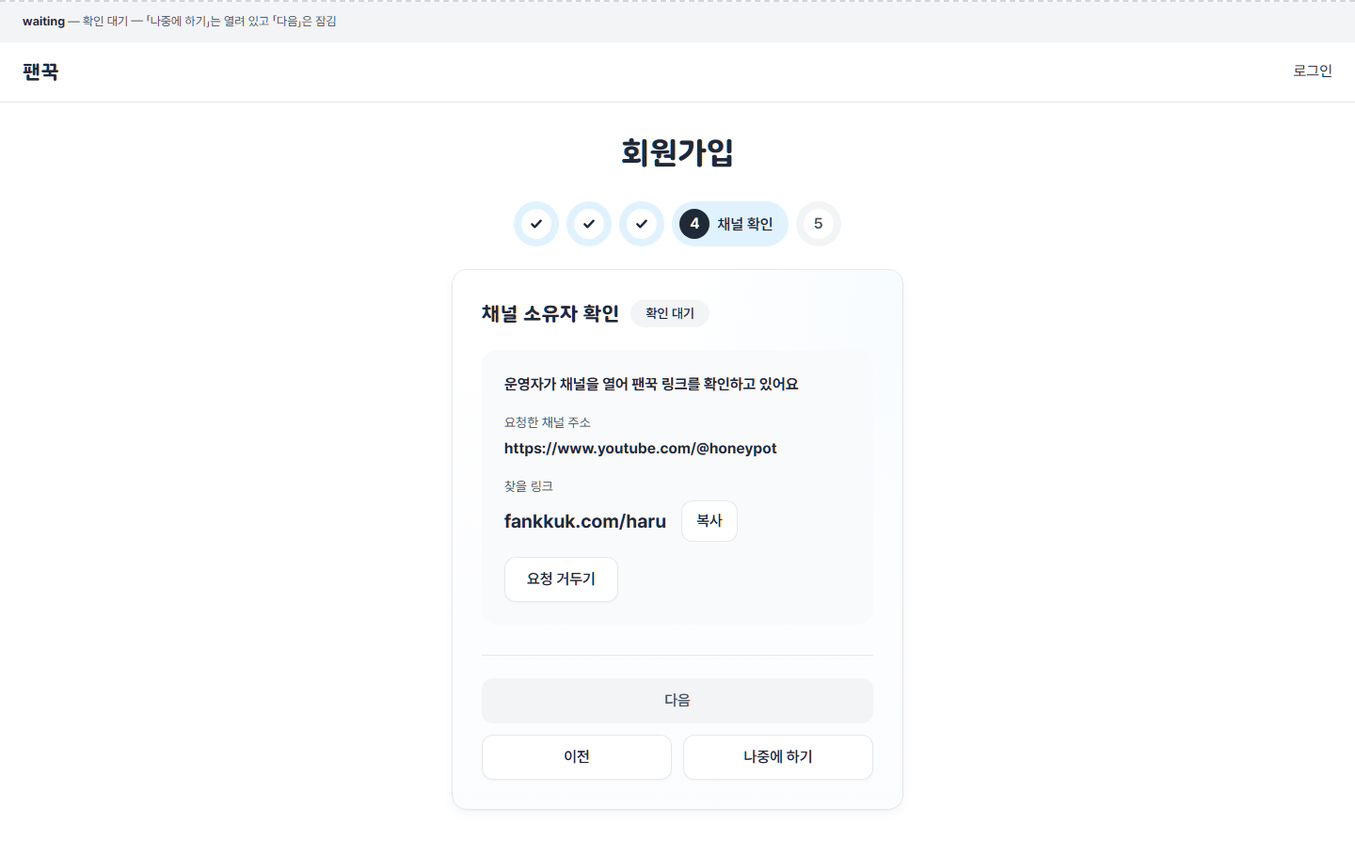
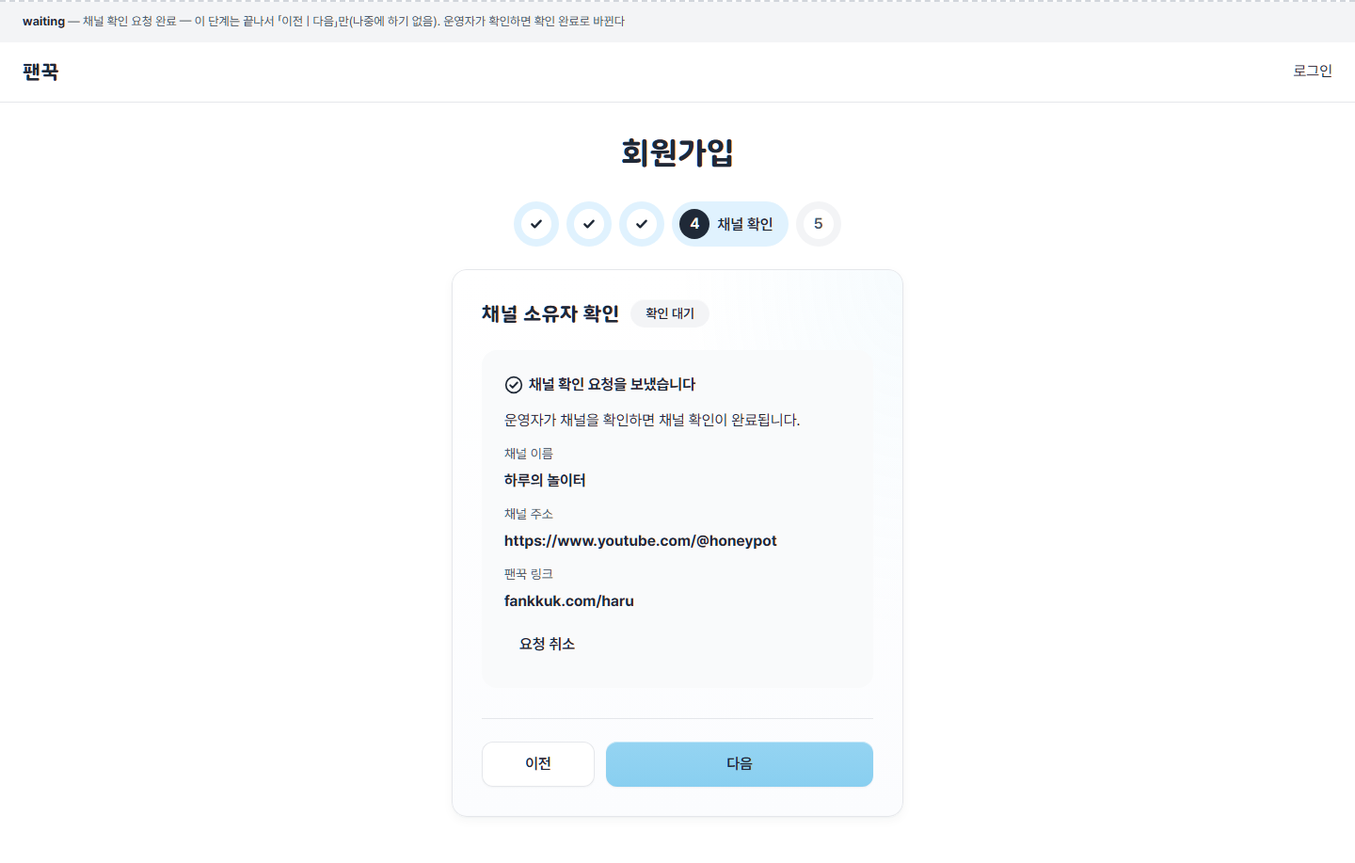
docs(fankkuk): 채널 확인 시안 — 4단계를 채널 이름·링크 올리기(예시)·주소·요청·요청 완료 순서로, 요청 뒤 「다음」 켜짐

diff --git a/projects/fankkuk/docs/design/mockups/channel-link-verify-20261102/index.html b/projects/fankkuk/docs/design/mockups/channel-link-verify-20261102/index.html
@@ -4,7 +4,7 @@
 <link rel="stylesheet" href="https://cdn.jsdelivr.net/gh/orioncactus/pretendard@v1.3.9/dist/web/variable/pretendardvariable.min.css">
 <link rel="stylesheet" href="styles.css"></head><body>
 <!-- 근거: docs/ux/pages/signup.md · handle.md 「2026-11-02 채널 확인 개정안」. 쪽지 코드 칸 없음. 새 토큰·부품 없음(styles.css 는 v43 가입 시안 CSS 를 그대로 복사). 운영자 화면은 admin.html -->
-<header class="v-head"><h1 class="t-title">채널 확인 — 선물 링크 게시 확인</h1><ol><li><a href="#signup-2">가입 2단계</a></li><li><a href="#link-needed">link_needed (계정 설정)</a></li><li><a href="#idle-empty">idle (1/3)</a></li><li><a href="#idle-youtube">idle (2/3)</a></li><li><a href="#idle-chzzk">idle (3/3)</a></li><li><a href="#waiting">waiting</a></li><li><a href="#rejected">rejected</a></li><li><a href="#verified">verified (가입 4단계)</a></li><li><a href="#locked">locked</a></li><li><a href="#acct-verified">verified (계정 설정)</a></li><li><a href="#acct-recheck">recheck_missing</a></li><li><a href="#profile-verifying">verifying (선물 링크 페이지 fankkuk.com/haru)</a></li><li><a href="admin.html">운영자 화면(admin.html)</a></li></ol></header>
+<header class="v-head"><h1 class="t-title">채널 확인 — 선물 링크 게시 확인</h1><ol><li><a href="#signup-2">가입 2단계</a></li><li><a href="#link-needed">link_needed (계정 설정)</a></li><li><a href="#idle-empty">확인 전 (주소 전)</a></li><li><a href="#idle-youtube">확인 전 (주소 뒤)</a></li><li><a href="#waiting">요청 완료</a></li><li><a href="#rejected">rejected</a></li><li><a href="#verified">verified (가입 4단계)</a></li><li><a href="#locked">locked</a></li><li><a href="#acct-verified">verified (계정 설정)</a></li><li><a href="#acct-recheck">recheck_missing</a></li><li><a href="#profile-verifying">verifying (선물 링크 페이지 fankkuk.com/haru)</a></li><li><a href="admin.html">운영자 화면(admin.html)</a></li></ol></header>
 <section class="v-state" id="signup-2"><span class="v-label"><b>가입 2단계 (크리에이터)</b> — 바뀌는 칸만: 칸 설명은 소제목 바로 아래(입력 칸 위), 꼴 규칙은 입력 칸 아래 · 공개 이름 칸 없음(닉네임으로 합침 — 다음 작업) · 팬꾹 링크 칸 새로</span><div class="v-bar"><b>팬꾹</b><span>로그인</span></div><main><section class="su-page"><div class="container auth su-box"><div class="head"><h1 class="t-title">회원가입</h1></div><nav class="su-steps-wrap" aria-label="가입 단계"><ol class="su-steps su-four"><li><span class="su-st is-done"><span class="su-dot" aria-hidden="true"><svg width="16" height="16" viewBox="0 0 24 24" aria-hidden="true"><path d="m5 12.5 4.5 4.5L19 7" fill="none" stroke="currentColor" stroke-width="3.5" stroke-linecap="round" stroke-linejoin="round"/></svg></span><span class="su-lbl">유형 선택</span></span></li><li><span class="su-st" aria-current="step"><span class="su-dot" aria-hidden="true">2</span><span class="su-lbl">정보 입력</span></span></li><li><span class="su-st"><span class="su-dot" aria-hidden="true">3</span><span class="su-lbl">휴대폰 확인</span></span></li><li><span class="su-st"><span class="su-dot" aria-hidden="true">4</span><span class="su-lbl">채널 확인</span></span></li><li><span class="su-st"><span class="su-dot" aria-hidden="true">5</span><span class="su-lbl">승인 서명</span></span></li></ol></nav><form class="card" onsubmit="return false"><fieldset class="su-step"><legend class="sr-only">정보 입력</legend>
 <h3 class="t-card" style="margin-bottom:16px">계정</h3><div class="form">
 <div><label class="label" for="s2-id">아이디</label><p class="v-desc">로그인에 사용하는 아이디입니다. 다른 사람에게는 보이지 않습니다.</p><input class="field" id="s2-id" value="haru_game"><p class="hint">영문 소문자·숫자·밑줄(_) 4~20자 · 가입 후 변경할 수 없습니다.</p></div>
@@ -16,11 +16,10 @@
 <p class="hint" style="margin:0">팬덤 이름·태그는 지금 문구를 유지합니다.</p></div>
 </fieldset><div class="su-step-actions"><button class="btn btn--line" type="button">이전</button><button class="btn su-next" type="submit">다음</button></div></form></div></section></main></section>
 <section class="v-state" id="link-needed"><span class="v-label"><b>link_needed (계정 설정)</b> — 가입 2단계에서 팬꾹 링크를 만들기 전에 가입한 기존 크리에이터만. 새로 가입하는 사람은 가입 4단계에서 이 상태를 보지 않는다. 「만들기」를 누르면 「정하면 30일 동안 바꿀 수 없어요」 확인 창(설정 화면과 같음)</span><div class="v-bar"><b>팬꾹</b><span>로그인</span></div><main><div class="v-wrap720"><div class="head" style="margin-bottom:24px"><h1 class="t-title">계정 설정</h1></div><section class="card"><fieldset class="su-step" style="margin:0"><legend class="sr-only">채널 소유자 확인</legend><div class="vp-head"><h2 class="t-card">채널 소유자 확인</h2><span class="tag">확인 전</span></div><p class="sub su-lead">다른 사람이 내 채널로 가입하지 못하도록, 채널 소유자를 확인해 주세요.<br>팬이 선물을 보낼 수 있게 팬꾹 링크를 채널 소개에 올려 주세요. 올라와 있으면 채널 확인도 같이 끝나요.</p><div class="vp-box"><label class="vp-label" for="h0">내 팬꾹 링크</label><div class="vp-handle"><span class="pre">fankkuk.com/</span><input class="field" id="h0" placeholder="haru"><button class="btn btn--sm" type="button">만들기</button></div></div></fieldset></section></div></main></section>
-<section class="v-state" id="idle-empty"><span class="v-label"><b>idle (1/3)</b> — 확인 전 — 채널 주소 입력 전</span><div class="v-bar"><b>팬꾹</b><span>로그인</span></div><main><section class="su-page"><div class="container auth su-box"><div class="head"><h1 class="t-title">회원가입</h1></div><nav class="su-steps-wrap" aria-label="가입 단계"><ol class="su-steps su-four"><li><span class="su-st is-done"><span class="su-dot" aria-hidden="true"><svg width="16" height="16" viewBox="0 0 24 24" aria-hidden="true"><path d="m5 12.5 4.5 4.5L19 7" fill="none" stroke="currentColor" stroke-width="3.5" stroke-linecap="round" stroke-linejoin="round"/></svg></span><span class="su-lbl">유형 선택</span></span></li><li><span class="su-st is-done"><span class="su-dot" aria-hidden="true"><svg width="16" height="16" viewBox="0 0 24 24" aria-hidden="true"><path d="m5 12.5 4.5 4.5L19 7" fill="none" stroke="currentColor" stroke-width="3.5" stroke-linecap="round" stroke-linejoin="round"/></svg></span><span class="su-lbl">정보 입력</span></span></li><li><span class="su-st is-done"><span class="su-dot" aria-hidden="true"><svg width="16" height="16" viewBox="0 0 24 24" aria-hidden="true"><path d="m5 12.5 4.5 4.5L19 7" fill="none" stroke="currentColor" stroke-width="3.5" stroke-linecap="round" stroke-linejoin="round"/></svg></span><span class="su-lbl">휴대폰 확인</span></span></li><li><span class="su-st" aria-current="step"><span class="su-dot" aria-hidden="true">4</span><span class="su-lbl">채널 확인</span></span></li><li><span class="su-st"><span class="su-dot" aria-hidden="true">5</span><span class="su-lbl">승인 서명</span></span></li></ol></nav><form class="card" onsubmit="return false"><fieldset class="su-step"><legend class="sr-only">채널 소유자 확인</legend><div class="vp-head"><h2 class="t-card">채널 소유자 확인</h2><span class="tag">확인 전</span></div><p class="sub su-lead">다른 사람이 내 채널로 가입하지 못하도록, 채널 소유자를 확인해 주세요.<br>팬이 선물을 보낼 수 있게 팬꾹 링크를 채널 소개에 올려 주세요. 올라와 있으면 채널 확인도 같이 끝나요.</p><div class="vp-box"><p class="vp-label">내 팬꾹 링크</p><div class="vp-code-row"><span class="vp-link">fankkuk.com/haru</span><button class="btn btn--line btn--sm" type="button">복사</button></div></div><div style="margin-top:24px"><div><label class="label" for="a1">채널 주소</label><input class="field" id="a1" inputmode="url" placeholder="https://www.youtube.com/@핸들" value=""><ul class="vp-examples"><li>유튜브 <code>https://www.youtube.com/@핸들</code></li><li>치지직 <code>https://chzzk.naver.com/채널ID</code></li><li>SOOP <code>https://www.sooplive.co.kr/station/아이디</code></li></ul></div></div><div class="vp-steps"><button class="btn" type="button" aria-disabled="true">확인 요청</button></div></fieldset><div class="v-kakao-actions v-three"><button class="btn btn--line" type="button">이전</button><button class="btn btn--line" type="button">나중에 하기</button><button class="btn su-next v-main" type="submit" aria-disabled="true">다음</button></div></form></div></section></main></section>
-<section class="v-state" id="idle-youtube"><span class="v-label"><b>idle (2/3)</b> — 확인 전 — 유튜브 주소 입력 뒤</span><div class="v-bar"><b>팬꾹</b><span>로그인</span></div><main><section class="su-page"><div class="container auth su-box"><div class="head"><h1 class="t-title">회원가입</h1></div><nav class="su-steps-wrap" aria-label="가입 단계"><ol class="su-steps su-four"><li><span class="su-st is-done"><span class="su-dot" aria-hidden="true"><svg width="16" height="16" viewBox="0 0 24 24" aria-hidden="true"><path d="m5 12.5 4.5 4.5L19 7" fill="none" stroke="currentColor" stroke-width="3.5" stroke-linecap="round" stroke-linejoin="round"/></svg></span><span class="su-lbl">유형 선택</span></span></li><li><span class="su-st is-done"><span class="su-dot" aria-hidden="true"><svg width="16" height="16" viewBox="0 0 24 24" aria-hidden="true"><path d="m5 12.5 4.5 4.5L19 7" fill="none" stroke="currentColor" stroke-width="3.5" stroke-linecap="round" stroke-linejoin="round"/></svg></span><span class="su-lbl">정보 입력</span></span></li><li><span class="su-st is-done"><span class="su-dot" aria-hidden="true"><svg width="16" height="16" viewBox="0 0 24 24" aria-hidden="true"><path d="m5 12.5 4.5 4.5L19 7" fill="none" stroke="currentColor" stroke-width="3.5" stroke-linecap="round" stroke-linejoin="round"/></svg></span><span class="su-lbl">휴대폰 확인</span></span></li><li><span class="su-st" aria-current="step"><span class="su-dot" aria-hidden="true">4</span><span class="su-lbl">채널 확인</span></span></li><li><span class="su-st"><span class="su-dot" aria-hidden="true">5</span><span class="su-lbl">승인 서명</span></span></li></ol></nav><form class="card" onsubmit="return false"><fieldset class="su-step"><legend class="sr-only">채널 소유자 확인</legend><div class="vp-head"><h2 class="t-card">채널 소유자 확인</h2><span class="tag">확인 전</span></div><p class="sub su-lead">다른 사람이 내 채널로 가입하지 못하도록, 채널 소유자를 확인해 주세요.<br>팬이 선물을 보낼 수 있게 팬꾹 링크를 채널 소개에 올려 주세요. 올라와 있으면 채널 확인도 같이 끝나요.</p><div class="vp-box"><p class="vp-label">내 팬꾹 링크</p><div class="vp-code-row"><span class="vp-link">fankkuk.com/haru</span><button class="btn btn--line btn--sm" type="button">복사</button></div></div><div style="margin-top:24px"><div><label class="label" for="a2">채널 주소</label><input class="field" id="a2" inputmode="url" placeholder="https://www.youtube.com/@핸들" value="https://www.youtube.com/@honeypot"><p class="vp-preview">유튜브 · https://www.youtube.com/@honeypot</p></div></div><div class="vp-steps"><button class="btn" type="button">확인 요청</button></div></fieldset><div class="v-kakao-actions v-three"><button class="btn btn--line" type="button">이전</button><button class="btn btn--line" type="button">나중에 하기</button><button class="btn su-next v-main" type="submit" aria-disabled="true">다음</button></div></form></div></section></main></section>
-<section class="v-state" id="idle-chzzk"><span class="v-label"><b>idle (3/3)</b> — 확인 전 — 치지직 주소 + 치지직 로그인 연결이 있을 때</span><div class="v-bar"><b>팬꾹</b><span>로그인</span></div><main><section class="su-page"><div class="container auth su-box"><div class="head"><h1 class="t-title">회원가입</h1></div><nav class="su-steps-wrap" aria-label="가입 단계"><ol class="su-steps su-four"><li><span class="su-st is-done"><span class="su-dot" aria-hidden="true"><svg width="16" height="16" viewBox="0 0 24 24" aria-hidden="true"><path d="m5 12.5 4.5 4.5L19 7" fill="none" stroke="currentColor" stroke-width="3.5" stroke-linecap="round" stroke-linejoin="round"/></svg></span><span class="su-lbl">유형 선택</span></span></li><li><span class="su-st is-done"><span class="su-dot" aria-hidden="true"><svg width="16" height="16" viewBox="0 0 24 24" aria-hidden="true"><path d="m5 12.5 4.5 4.5L19 7" fill="none" stroke="currentColor" stroke-width="3.5" stroke-linecap="round" stroke-linejoin="round"/></svg></span><span class="su-lbl">정보 입력</span></span></li><li><span class="su-st is-done"><span class="su-dot" aria-hidden="true"><svg width="16" height="16" viewBox="0 0 24 24" aria-hidden="true"><path d="m5 12.5 4.5 4.5L19 7" fill="none" stroke="currentColor" stroke-width="3.5" stroke-linecap="round" stroke-linejoin="round"/></svg></span><span class="su-lbl">휴대폰 확인</span></span></li><li><span class="su-st" aria-current="step"><span class="su-dot" aria-hidden="true">4</span><span class="su-lbl">채널 확인</span></span></li><li><span class="su-st"><span class="su-dot" aria-hidden="true">5</span><span class="su-lbl">승인 서명</span></span></li></ol></nav><form class="card" onsubmit="return false"><fieldset class="su-step"><legend class="sr-only">채널 소유자 확인</legend><div class="vp-head"><h2 class="t-card">채널 소유자 확인</h2><span class="tag">확인 전</span></div><p class="sub su-lead">다른 사람이 내 채널로 가입하지 못하도록, 채널 소유자를 확인해 주세요.<br>팬이 선물을 보낼 수 있게 팬꾹 링크를 채널 소개에 올려 주세요. 올라와 있으면 채널 확인도 같이 끝나요.</p><div class="vp-box"><p class="vp-label">내 팬꾹 링크</p><div class="vp-code-row"><span class="vp-link">fankkuk.com/haru</span><button class="btn btn--line btn--sm" type="button">복사</button></div></div><div style="margin-top:24px"><div><label class="label" for="a3">채널 주소</label><input class="field" id="a3" inputmode="url" placeholder="https://www.youtube.com/@핸들" value="https://chzzk.naver.com/9f3a7c21d0b84e"><p class="vp-preview">치지직 · https://chzzk.naver.com/9f3a7c21d0b84e</p></div></div><div class="vp-steps"><button class="btn" type="button">확인 요청</button><div class="vp-or"><button class="btn btn--line" type="button">치지직으로 바로 확인</button></div></div></fieldset><div class="v-kakao-actions v-three"><button class="btn btn--line" type="button">이전</button><button class="btn btn--line" type="button">나중에 하기</button><button class="btn su-next v-main" type="submit" aria-disabled="true">다음</button></div></form></div></section></main></section>
-<section class="v-state" id="waiting"><span class="v-label"><b>waiting</b> — 확인 대기 — 「나중에 하기」는 열려 있고 「다음」은 잠김</span><div class="v-bar"><b>팬꾹</b><span>로그인</span></div><main><section class="su-page"><div class="container auth su-box"><div class="head"><h1 class="t-title">회원가입</h1></div><nav class="su-steps-wrap" aria-label="가입 단계"><ol class="su-steps su-four"><li><span class="su-st is-done"><span class="su-dot" aria-hidden="true"><svg width="16" height="16" viewBox="0 0 24 24" aria-hidden="true"><path d="m5 12.5 4.5 4.5L19 7" fill="none" stroke="currentColor" stroke-width="3.5" stroke-linecap="round" stroke-linejoin="round"/></svg></span><span class="su-lbl">유형 선택</span></span></li><li><span class="su-st is-done"><span class="su-dot" aria-hidden="true"><svg width="16" height="16" viewBox="0 0 24 24" aria-hidden="true"><path d="m5 12.5 4.5 4.5L19 7" fill="none" stroke="currentColor" stroke-width="3.5" stroke-linecap="round" stroke-linejoin="round"/></svg></span><span class="su-lbl">정보 입력</span></span></li><li><span class="su-st is-done"><span class="su-dot" aria-hidden="true"><svg width="16" height="16" viewBox="0 0 24 24" aria-hidden="true"><path d="m5 12.5 4.5 4.5L19 7" fill="none" stroke="currentColor" stroke-width="3.5" stroke-linecap="round" stroke-linejoin="round"/></svg></span><span class="su-lbl">휴대폰 확인</span></span></li><li><span class="su-st" aria-current="step"><span class="su-dot" aria-hidden="true">4</span><span class="su-lbl">채널 확인</span></span></li><li><span class="su-st"><span class="su-dot" aria-hidden="true">5</span><span class="su-lbl">승인 서명</span></span></li></ol></nav><form class="card" onsubmit="return false"><fieldset class="su-step"><legend class="sr-only">채널 소유자 확인</legend><div class="vp-head"><h2 class="t-card">채널 소유자 확인</h2><span class="tag tag--warn">확인 대기</span></div><div class="vp-box"><p class="vp-label">운영자가 채널을 열어 팬꾹 링크를 확인하고 있어요</p><div class="vp-kv"><span class="k">요청한 채널 주소</span><span class="ch" style="font-weight:700;overflow-wrap:anywhere">https://www.youtube.com/@honeypot</span></div><div class="vp-kv"><span class="k">찾을 링크</span><div class="vp-code-row"><span class="vp-link">fankkuk.com/haru</span><button class="btn btn--line btn--sm" type="button">복사</button></div></div><div><button class="btn btn--line" type="button">요청 거두기</button></div></div></fieldset><div class="v-kakao-actions v-three"><button class="btn btn--line" type="button">이전</button><button class="btn btn--line" type="button">나중에 하기</button><button class="btn su-next v-main" type="submit" aria-disabled="true">다음</button></div></form></div></section></main></section>
-<section class="v-state" id="rejected"><span class="v-label"><b>rejected</b> — 반려 — 사유 한 줄 + 남은 요청 횟수, 아래는 idle 의 칸</span><div class="v-bar"><b>팬꾹</b><span>로그인</span></div><main><section class="su-page"><div class="container auth su-box"><div class="head"><h1 class="t-title">회원가입</h1></div><nav class="su-steps-wrap" aria-label="가입 단계"><ol class="su-steps su-four"><li><span class="su-st is-done"><span class="su-dot" aria-hidden="true"><svg width="16" height="16" viewBox="0 0 24 24" aria-hidden="true"><path d="m5 12.5 4.5 4.5L19 7" fill="none" stroke="currentColor" stroke-width="3.5" stroke-linecap="round" stroke-linejoin="round"/></svg></span><span class="su-lbl">유형 선택</span></span></li><li><span class="su-st is-done"><span class="su-dot" aria-hidden="true"><svg width="16" height="16" viewBox="0 0 24 24" aria-hidden="true"><path d="m5 12.5 4.5 4.5L19 7" fill="none" stroke="currentColor" stroke-width="3.5" stroke-linecap="round" stroke-linejoin="round"/></svg></span><span class="su-lbl">정보 입력</span></span></li><li><span class="su-st is-done"><span class="su-dot" aria-hidden="true"><svg width="16" height="16" viewBox="0 0 24 24" aria-hidden="true"><path d="m5 12.5 4.5 4.5L19 7" fill="none" stroke="currentColor" stroke-width="3.5" stroke-linecap="round" stroke-linejoin="round"/></svg></span><span class="su-lbl">휴대폰 확인</span></span></li><li><span class="su-st" aria-current="step"><span class="su-dot" aria-hidden="true">4</span><span class="su-lbl">채널 확인</span></span></li><li><span class="su-st"><span class="su-dot" aria-hidden="true">5</span><span class="su-lbl">승인 서명</span></span></li></ol></nav><form class="card" onsubmit="return false"><fieldset class="su-step"><legend class="sr-only">채널 소유자 확인</legend><div class="vp-head"><h2 class="t-card">채널 소유자 확인</h2><span class="tag tag--danger">반려</span></div><div class="vp-box" style="margin-bottom:24px"><p class="vp-rej"><svg width="20" height="20" viewBox="0 0 24 24" aria-hidden="true"><circle cx="12" cy="12" r="10" fill="none" stroke="currentColor" stroke-width="2"/><path d="M12 7v6M12 16.5v.5" stroke="currentColor" stroke-width="2.4" stroke-linecap="round"/></svg>링크 주소가 다름</p><p class="sub">남은 요청 횟수: 2회</p></div><div class="vp-box"><p class="vp-label">내 팬꾹 링크</p><div class="vp-code-row"><span class="vp-link">fankkuk.com/haru</span><button class="btn btn--line btn--sm" type="button">복사</button></div></div><div style="margin-top:24px"><div><label class="label" for="a4">채널 주소</label><input class="field" id="a4" inputmode="url" placeholder="https://www.youtube.com/@핸들" value="https://www.youtube.com/@honeypot"><p class="vp-preview">유튜브 · https://www.youtube.com/@honeypot</p></div></div><div class="vp-steps"><button class="btn" type="button">다시 확인 요청</button></div></fieldset><div class="v-kakao-actions v-three"><button class="btn btn--line" type="button">이전</button><button class="btn btn--line" type="button">나중에 하기</button><button class="btn su-next v-main" type="submit" aria-disabled="true">다음</button></div></form></div></section></main></section>
+<section class="v-state" id="idle-empty"><span class="v-label"><b>idle (1/2)</b> — 확인 전 — ① 2단계 채널 이름 ② 팬꾹 링크 올리기(예시) ③ 채널 주소 ④ 요청. 주소를 넣기 전에는 요청 버튼이 꺼짐</span><div class="v-bar"><b>팬꾹</b><span>로그인</span></div><main><section class="su-page"><div class="container auth su-box"><div class="head"><h1 class="t-title">회원가입</h1></div><nav class="su-steps-wrap" aria-label="가입 단계"><ol class="su-steps su-four"><li><span class="su-st is-done"><span class="su-dot" aria-hidden="true"><svg width="16" height="16" viewBox="0 0 24 24" aria-hidden="true"><path d="m5 12.5 4.5 4.5L19 7" fill="none" stroke="currentColor" stroke-width="3.5" stroke-linecap="round" stroke-linejoin="round"/></svg></span><span class="su-lbl">유형 선택</span></span></li><li><span class="su-st is-done"><span class="su-dot" aria-hidden="true"><svg width="16" height="16" viewBox="0 0 24 24" aria-hidden="true"><path d="m5 12.5 4.5 4.5L19 7" fill="none" stroke="currentColor" stroke-width="3.5" stroke-linecap="round" stroke-linejoin="round"/></svg></span><span class="su-lbl">정보 입력</span></span></li><li><span class="su-st is-done"><span class="su-dot" aria-hidden="true"><svg width="16" height="16" viewBox="0 0 24 24" aria-hidden="true"><path d="m5 12.5 4.5 4.5L19 7" fill="none" stroke="currentColor" stroke-width="3.5" stroke-linecap="round" stroke-linejoin="round"/></svg></span><span class="su-lbl">휴대폰 확인</span></span></li><li><span class="su-st" aria-current="step"><span class="su-dot" aria-hidden="true">4</span><span class="su-lbl">채널 확인</span></span></li><li><span class="su-st"><span class="su-dot" aria-hidden="true">5</span><span class="su-lbl">승인 서명</span></span></li></ol></nav><form class="card" onsubmit="return false"><fieldset class="su-step"><legend class="sr-only">채널 소유자 확인</legend><div class="vp-head"><h2 class="t-card">채널 소유자 확인</h2><span class="tag ">확인 전</span></div><p class="sub su-lead">다른 사람이 내 채널로 가입하지 못하도록, 채널 소유자를 확인해 주세요.</p><div class="vp-kv v-name"><span class="k">채널 이름</span><strong>하루의 놀이터</strong></div><div class="v-step"><p class="vp-label"><span class="v-no">1</span>채널 소개에 팬꾹 링크를 올려 주세요</p><div class="vp-box"><div class="vp-code-row"><span class="vp-link">fankkuk.com/haru</span><button class="btn btn--line btn--sm" type="button">복사</button></div><div class="v-example"><span class="k">예시</span><p>게임 방송하는 하루입니다. 선물은 여기로 보내 주세요<br><b>fankkuk.com/haru</b></p></div></div></div><div class="v-step"><label class="vp-label" for="a1"><span class="v-no">2</span>팬꾹 링크를 올린 채널 주소를 입력해 주세요</label><input class="field" id="a1" inputmode="url" placeholder="https://www.youtube.com/@핸들" value=""><ul class="vp-examples"><li>유튜브 <code>https://www.youtube.com/@핸들</code></li><li>치지직 <code>https://chzzk.naver.com/채널ID</code></li><li>SOOP <code>https://www.sooplive.co.kr/station/아이디</code></li></ul></div><div class="vp-steps"><button class="btn" type="button" aria-disabled="true">채널 확인 요청</button></div></fieldset><div class="v-kakao-actions v-three"><button class="btn btn--line" type="button">이전</button><button class="btn btn--line" type="button">나중에 하기</button><button class="btn su-next v-main" type="submit" aria-disabled="true">다음</button></div></form></div></section></main></section>
+<section class="v-state" id="idle-youtube"><span class="v-label"><b>idle (2/2)</b> — 확인 전 — 주소를 넣으면 요청 버튼이 켜짐</span><div class="v-bar"><b>팬꾹</b><span>로그인</span></div><main><section class="su-page"><div class="container auth su-box"><div class="head"><h1 class="t-title">회원가입</h1></div><nav class="su-steps-wrap" aria-label="가입 단계"><ol class="su-steps su-four"><li><span class="su-st is-done"><span class="su-dot" aria-hidden="true"><svg width="16" height="16" viewBox="0 0 24 24" aria-hidden="true"><path d="m5 12.5 4.5 4.5L19 7" fill="none" stroke="currentColor" stroke-width="3.5" stroke-linecap="round" stroke-linejoin="round"/></svg></span><span class="su-lbl">유형 선택</span></span></li><li><span class="su-st is-done"><span class="su-dot" aria-hidden="true"><svg width="16" height="16" viewBox="0 0 24 24" aria-hidden="true"><path d="m5 12.5 4.5 4.5L19 7" fill="none" stroke="currentColor" stroke-width="3.5" stroke-linecap="round" stroke-linejoin="round"/></svg></span><span class="su-lbl">정보 입력</span></span></li><li><span class="su-st is-done"><span class="su-dot" aria-hidden="true"><svg width="16" height="16" viewBox="0 0 24 24" aria-hidden="true"><path d="m5 12.5 4.5 4.5L19 7" fill="none" stroke="currentColor" stroke-width="3.5" stroke-linecap="round" stroke-linejoin="round"/></svg></span><span class="su-lbl">휴대폰 확인</span></span></li><li><span class="su-st" aria-current="step"><span class="su-dot" aria-hidden="true">4</span><span class="su-lbl">채널 확인</span></span></li><li><span class="su-st"><span class="su-dot" aria-hidden="true">5</span><span class="su-lbl">승인 서명</span></span></li></ol></nav><form class="card" onsubmit="return false"><fieldset class="su-step"><legend class="sr-only">채널 소유자 확인</legend><div class="vp-head"><h2 class="t-card">채널 소유자 확인</h2><span class="tag ">확인 전</span></div><p class="sub su-lead">다른 사람이 내 채널로 가입하지 못하도록, 채널 소유자를 확인해 주세요.</p><div class="vp-kv v-name"><span class="k">채널 이름</span><strong>하루의 놀이터</strong></div><div class="v-step"><p class="vp-label"><span class="v-no">1</span>채널 소개에 팬꾹 링크를 올려 주세요</p><div class="vp-box"><div class="vp-code-row"><span class="vp-link">fankkuk.com/haru</span><button class="btn btn--line btn--sm" type="button">복사</button></div><div class="v-example"><span class="k">예시</span><p>게임 방송하는 하루입니다. 선물은 여기로 보내 주세요<br><b>fankkuk.com/haru</b></p></div></div></div><div class="v-step"><label class="vp-label" for="a2"><span class="v-no">2</span>팬꾹 링크를 올린 채널 주소를 입력해 주세요</label><input class="field" id="a2" inputmode="url" placeholder="https://www.youtube.com/@핸들" value="https://www.youtube.com/@honeypot"><ul class="vp-examples"><li>유튜브 <code>https://www.youtube.com/@핸들</code></li><li>치지직 <code>https://chzzk.naver.com/채널ID</code></li><li>SOOP <code>https://www.sooplive.co.kr/station/아이디</code></li></ul></div><div class="vp-steps"><button class="btn" type="button">채널 확인 요청</button></div></fieldset><div class="v-kakao-actions v-three"><button class="btn btn--line" type="button">이전</button><button class="btn btn--line" type="button">나중에 하기</button><button class="btn su-next v-main" type="submit" aria-disabled="true">다음</button></div></form></div></section></main></section>
+<section class="v-state" id="waiting"><span class="v-label"><b>waiting</b> — 채널 확인 요청 완료 — 이 단계는 끝나서 「이전 | 다음」만(나중에 하기 없음). 운영자가 확인하면 확인 완료로 바뀐다</span><div class="v-bar"><b>팬꾹</b><span>로그인</span></div><main><section class="su-page"><div class="container auth su-box"><div class="head"><h1 class="t-title">회원가입</h1></div><nav class="su-steps-wrap" aria-label="가입 단계"><ol class="su-steps su-four"><li><span class="su-st is-done"><span class="su-dot" aria-hidden="true"><svg width="16" height="16" viewBox="0 0 24 24" aria-hidden="true"><path d="m5 12.5 4.5 4.5L19 7" fill="none" stroke="currentColor" stroke-width="3.5" stroke-linecap="round" stroke-linejoin="round"/></svg></span><span class="su-lbl">유형 선택</span></span></li><li><span class="su-st is-done"><span class="su-dot" aria-hidden="true"><svg width="16" height="16" viewBox="0 0 24 24" aria-hidden="true"><path d="m5 12.5 4.5 4.5L19 7" fill="none" stroke="currentColor" stroke-width="3.5" stroke-linecap="round" stroke-linejoin="round"/></svg></span><span class="su-lbl">정보 입력</span></span></li><li><span class="su-st is-done"><span class="su-dot" aria-hidden="true"><svg width="16" height="16" viewBox="0 0 24 24" aria-hidden="true"><path d="m5 12.5 4.5 4.5L19 7" fill="none" stroke="currentColor" stroke-width="3.5" stroke-linecap="round" stroke-linejoin="round"/></svg></span><span class="su-lbl">휴대폰 확인</span></span></li><li><span class="su-st" aria-current="step"><span class="su-dot" aria-hidden="true">4</span><span class="su-lbl">채널 확인</span></span></li><li><span class="su-st"><span class="su-dot" aria-hidden="true">5</span><span class="su-lbl">승인 서명</span></span></li></ol></nav><form class="card" onsubmit="return false"><fieldset class="su-step"><legend class="sr-only">채널 소유자 확인</legend><div class="vp-head"><h2 class="t-card">채널 소유자 확인</h2><span class="tag tag--warn">확인 대기</span></div><div class="vp-box v-done-box"><p class="vp-label" style="display:flex;align-items:center;gap:6px"><svg width="20" height="20" viewBox="0 0 24 24" aria-hidden="true"><circle cx="12" cy="12" r="10" fill="none" stroke="currentColor" stroke-width="2"/><path d="m7.5 12.5 3 3 6-6.5" fill="none" stroke="currentColor" stroke-width="2.4" stroke-linecap="round" stroke-linejoin="round"/></svg>채널 확인 요청을 보냈습니다</p><p>운영자가 채널을 확인하면 채널 확인이 완료됩니다.</p><div class="vp-kv"><span class="k">채널 이름</span><strong>하루의 놀이터</strong></div><div class="vp-kv"><span class="k">채널 주소</span><strong style="overflow-wrap:anywhere">https://www.youtube.com/@honeypot</strong></div><div class="vp-kv"><span class="k">팬꾹 링크</span><strong>fankkuk.com/haru</strong></div><div><button class="btn btn--text btn--sm" type="button">요청 취소</button></div></div></fieldset><div class="su-step-actions"><button class="btn btn--line" type="button">이전</button><button class="btn su-next" type="submit">다음</button></div></form></div></section></main></section>
+<section class="v-state" id="rejected"><span class="v-label"><b>rejected</b> — 반려 — 사유 한 줄 + 남은 요청 횟수, 아래는 확인 전과 같은 순서</span><div class="v-bar"><b>팬꾹</b><span>로그인</span></div><main><section class="su-page"><div class="container auth su-box"><div class="head"><h1 class="t-title">회원가입</h1></div><nav class="su-steps-wrap" aria-label="가입 단계"><ol class="su-steps su-four"><li><span class="su-st is-done"><span class="su-dot" aria-hidden="true"><svg width="16" height="16" viewBox="0 0 24 24" aria-hidden="true"><path d="m5 12.5 4.5 4.5L19 7" fill="none" stroke="currentColor" stroke-width="3.5" stroke-linecap="round" stroke-linejoin="round"/></svg></span><span class="su-lbl">유형 선택</span></span></li><li><span class="su-st is-done"><span class="su-dot" aria-hidden="true"><svg width="16" height="16" viewBox="0 0 24 24" aria-hidden="true"><path d="m5 12.5 4.5 4.5L19 7" fill="none" stroke="currentColor" stroke-width="3.5" stroke-linecap="round" stroke-linejoin="round"/></svg></span><span class="su-lbl">정보 입력</span></span></li><li><span class="su-st is-done"><span class="su-dot" aria-hidden="true"><svg width="16" height="16" viewBox="0 0 24 24" aria-hidden="true"><path d="m5 12.5 4.5 4.5L19 7" fill="none" stroke="currentColor" stroke-width="3.5" stroke-linecap="round" stroke-linejoin="round"/></svg></span><span class="su-lbl">휴대폰 확인</span></span></li><li><span class="su-st" aria-current="step"><span class="su-dot" aria-hidden="true">4</span><span class="su-lbl">채널 확인</span></span></li><li><span class="su-st"><span class="su-dot" aria-hidden="true">5</span><span class="su-lbl">승인 서명</span></span></li></ol></nav><form class="card" onsubmit="return false"><fieldset class="su-step"><legend class="sr-only">채널 소유자 확인</legend><div class="vp-head"><h2 class="t-card">채널 소유자 확인</h2><span class="tag tag--danger">반려</span></div><div class="vp-box" style="margin-bottom:24px"><p class="vp-rej"><svg width="20" height="20" viewBox="0 0 24 24" aria-hidden="true"><circle cx="12" cy="12" r="10" fill="none" stroke="currentColor" stroke-width="2"/><path d="M12 7v6M12 16.5v.5" stroke="currentColor" stroke-width="2.4" stroke-linecap="round"/></svg>팬꾹 링크를 찾지 못함</p><p class="sub">남은 요청 횟수: 2회</p></div><div class="vp-kv v-name"><span class="k">채널 이름</span><strong>하루의 놀이터</strong></div><div class="v-step"><p class="vp-label"><span class="v-no">1</span>채널 소개에 팬꾹 링크를 올려 주세요</p><div class="vp-box"><div class="vp-code-row"><span class="vp-link">fankkuk.com/haru</span><button class="btn btn--line btn--sm" type="button">복사</button></div><div class="v-example"><span class="k">예시</span><p>게임 방송하는 하루입니다. 선물은 여기로 보내 주세요<br><b>fankkuk.com/haru</b></p></div></div></div><div class="v-step"><label class="vp-label" for="a4"><span class="v-no">2</span>팬꾹 링크를 올린 채널 주소를 입력해 주세요</label><input class="field" id="a4" inputmode="url" placeholder="https://www.youtube.com/@핸들" value="https://www.youtube.com/@honeypot"><ul class="vp-examples"><li>유튜브 <code>https://www.youtube.com/@핸들</code></li><li>치지직 <code>https://chzzk.naver.com/채널ID</code></li><li>SOOP <code>https://www.sooplive.co.kr/station/아이디</code></li></ul></div><div class="vp-steps"><button class="btn" type="button">다시 채널 확인 요청</button></div></fieldset><div class="v-kakao-actions v-three"><button class="btn btn--line" type="button">이전</button><button class="btn btn--line" type="button">나중에 하기</button><button class="btn su-next v-main" type="submit" aria-disabled="true">다음</button></div></form></div></section></main></section>
 <section class="v-state" id="verified"><span class="v-label"><b>verified (가입 4단계)</b> — 확인 완료 — 「다음」이 켜짐, 다음 재확인 날 한 줄</span><div class="v-bar"><b>팬꾹</b><span>로그인</span></div><main><section class="su-page"><div class="container auth su-box"><div class="head"><h1 class="t-title">회원가입</h1></div><nav class="su-steps-wrap" aria-label="가입 단계"><ol class="su-steps su-four"><li><span class="su-st is-done"><span class="su-dot" aria-hidden="true"><svg width="16" height="16" viewBox="0 0 24 24" aria-hidden="true"><path d="m5 12.5 4.5 4.5L19 7" fill="none" stroke="currentColor" stroke-width="3.5" stroke-linecap="round" stroke-linejoin="round"/></svg></span><span class="su-lbl">유형 선택</span></span></li><li><span class="su-st is-done"><span class="su-dot" aria-hidden="true"><svg width="16" height="16" viewBox="0 0 24 24" aria-hidden="true"><path d="m5 12.5 4.5 4.5L19 7" fill="none" stroke="currentColor" stroke-width="3.5" stroke-linecap="round" stroke-linejoin="round"/></svg></span><span class="su-lbl">정보 입력</span></span></li><li><span class="su-st is-done"><span class="su-dot" aria-hidden="true"><svg width="16" height="16" viewBox="0 0 24 24" aria-hidden="true"><path d="m5 12.5 4.5 4.5L19 7" fill="none" stroke="currentColor" stroke-width="3.5" stroke-linecap="round" stroke-linejoin="round"/></svg></span><span class="su-lbl">휴대폰 확인</span></span></li><li><span class="su-st" aria-current="step"><span class="su-dot" aria-hidden="true">4</span><span class="su-lbl">채널 확인</span></span></li><li><span class="su-st"><span class="su-dot" aria-hidden="true">5</span><span class="su-lbl">승인 서명</span></span></li></ol></nav><form class="card" onsubmit="return false"><fieldset class="su-step"><legend class="sr-only">채널 소유자 확인</legend><div class="vp-head"><h2 class="t-card">채널 소유자 확인</h2><span class="tag tag--success">확인 완료</span></div><div class="vp-done"><strong>유튜브 채널 소유자로 확인되었습니다 · 2026.11.02</strong><a href="#">https://www.youtube.com/@honeypot</a><span class="sub">다음 재확인 2027.01.31</span></div></fieldset><div class="su-step-actions"><button class="btn btn--line" type="button">이전</button><button class="btn su-next" type="submit">다음</button></div></form></div></section></main></section>
 <section class="v-state" id="locked"><span class="v-label"><b>locked</b> — 그 채널로 끝난 요청 3번 — 더 요청할 수 없음</span><div class="v-bar"><b>팬꾹</b><span>로그인</span></div><main><section class="su-page"><div class="container auth su-box"><div class="head"><h1 class="t-title">회원가입</h1></div><nav class="su-steps-wrap" aria-label="가입 단계"><ol class="su-steps su-four"><li><span class="su-st is-done"><span class="su-dot" aria-hidden="true"><svg width="16" height="16" viewBox="0 0 24 24" aria-hidden="true"><path d="m5 12.5 4.5 4.5L19 7" fill="none" stroke="currentColor" stroke-width="3.5" stroke-linecap="round" stroke-linejoin="round"/></svg></span><span class="su-lbl">유형 선택</span></span></li><li><span class="su-st is-done"><span class="su-dot" aria-hidden="true"><svg width="16" height="16" viewBox="0 0 24 24" aria-hidden="true"><path d="m5 12.5 4.5 4.5L19 7" fill="none" stroke="currentColor" stroke-width="3.5" stroke-linecap="round" stroke-linejoin="round"/></svg></span><span class="su-lbl">정보 입력</span></span></li><li><span class="su-st is-done"><span class="su-dot" aria-hidden="true"><svg width="16" height="16" viewBox="0 0 24 24" aria-hidden="true"><path d="m5 12.5 4.5 4.5L19 7" fill="none" stroke="currentColor" stroke-width="3.5" stroke-linecap="round" stroke-linejoin="round"/></svg></span><span class="su-lbl">휴대폰 확인</span></span></li><li><span class="su-st" aria-current="step"><span class="su-dot" aria-hidden="true">4</span><span class="su-lbl">채널 확인</span></span></li><li><span class="su-st"><span class="su-dot" aria-hidden="true">5</span><span class="su-lbl">승인 서명</span></span></li></ol></nav><form class="card" onsubmit="return false"><fieldset class="su-step"><legend class="sr-only">채널 소유자 확인</legend><div class="vp-head"><h2 class="t-card">채널 소유자 확인</h2><span class="tag">신청 마감</span></div><div class="v-locked"><p class="vp-label">이 채널로는 더 신청할 수 없어요. 1:1 문의로 알려 주세요</p><div><button class="btn btn--line" type="button">1:1 문의</button></div></div></fieldset><div class="v-kakao-actions v-three"><button class="btn btn--line" type="button">이전</button><button class="btn btn--line" type="button">나중에 하기</button><button class="btn su-next v-main" type="submit" aria-disabled="true">다음</button></div></form></div></section></main></section>
 <section class="v-state" id="acct-verified"><span class="v-label"><b>verified (계정 설정)</b> — 확인 완료 — 같은 패널을 설정 화면에서 쓸 때(채널 이사 버튼 포함)</span><div class="v-bar"><b>팬꾹</b><span>로그인</span></div><main><div class="v-wrap720"><div class="head" style="margin-bottom:24px"><h1 class="t-title">계정 설정</h1></div><section class="card"><fieldset class="su-step" style="margin:0"><legend class="sr-only">채널 소유자 확인</legend><div class="vp-head"><h2 class="t-card">채널 소유자 확인</h2><span class="tag tag--success">확인 완료</span></div><div class="vp-done"><strong>유튜브 채널 소유자로 확인되었습니다 · 2026.11.02</strong><a href="#">https://www.youtube.com/@honeypot</a><span class="sub">다음 재확인 2027.01.31</span></div><div style="margin-top:16px"><button class="btn btn--line" type="button">채널 이사</button></div></fieldset></section></div></main></section>

diff --git a/projects/fankkuk/docs/design/mockups/channel-link-verify-20261102/styles.css b/projects/fankkuk/docs/design/mockups/channel-link-verify-20261102/styles.css
@@ -1479,3 +1479,11 @@ body{background:#fff}
 .su-steps.su-four { display: flex !important; justify-content: center; gap: 8px; }
 .su-steps.su-four > li { flex: 0 0 auto; width: auto !important; }
 .su-steps.su-four .su-st[aria-current] { width: auto; padding: 0 16px 0 8px; }
+
+.v-name{margin:16px 0 24px;padding:16px 20px;border-radius:12px;background:var(--surface)}
+.v-step{display:grid;gap:12px;margin-bottom:24px}
+.v-no{display:inline-grid;place-items:center;width:24px;height:24px;margin-right:8px;border-radius:50%;background:var(--gray-900,#111827);color:#fff;font-size:14px;font-weight:700;vertical-align:1px}
+.v-example{display:grid;gap:4px;padding:12px 16px;border-radius:8px;background:#fff;box-shadow:inset 0 0 0 1px var(--gray-200)}
+.v-example .k{color:var(--sub);font-size:var(--fs-small)}
+.v-example p{margin:0;line-height:1.6}
+.v-done-box{gap:12px}
